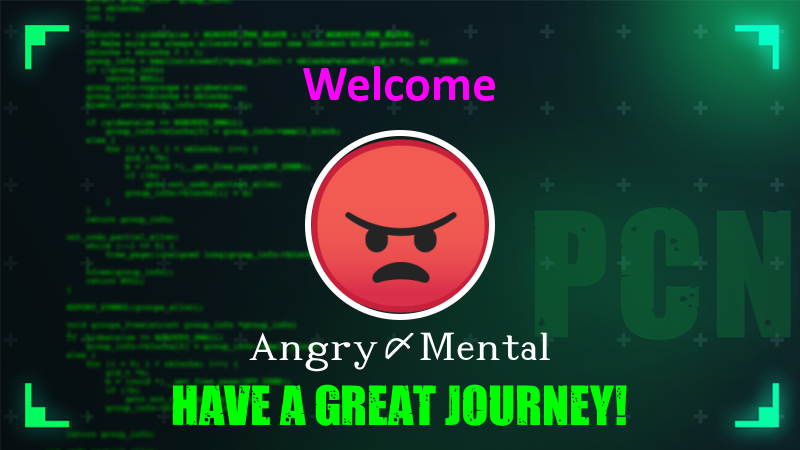
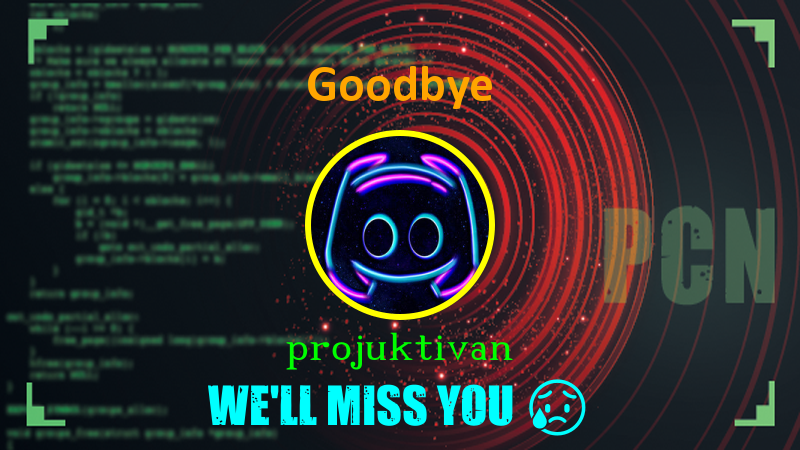
Structured Well

diff --git a/helperFunctions.js b/helperFunctions.js
@@ -18,12 +18,22 @@ function messageHandler(message) {
         sendMessage(message, "I'm good! What about you?");
     }
     if (message.author.username === 'Angry〆Mental' || message.author.username === '!    HiddenFigure🔆') {
-        return
+        if (message.content === 'addRole')
+            roleManager(message.member, "Select Your Roles", true);
+        else if (message.content === 'removeRole')
+            roleManager(message.member, 'Select Your Roles', false);
+        else if (message.content === 'constructImage')
+            constructImageAndSend(message.member.user, message.channel, 'Goodbye', 'Testing');
+        else if (message.content === 'sendMessage') {
+            const channel = message.guild.channels.cache.get('974724504825774161');
+            let msg = channel.send("HADAHSDAHDHA");
+        } else console.log(message.content);
+        return;
         console.log(message.author.avatarURL({ 'format': 'png', 'size': 256 }));
         constructImageAndSend(message.author, message.channel);
 
     }
-    if(message.author.username === 'projuktivan'){
+    if (message.author.username === 'projuktivan') {
         roleManager(message.member, "Select your roles", false);
     }
 }
@@ -50,7 +60,7 @@ async function fetchAllMessages(channel) {
 }
 
 async function deleteMessages(channel, amount) {
-    console.log(channel, amount);
+    console.log('amount', amount);
     let messages;
     if (amount != 'all')
         messages = await channel.messages.fetch({ limit: amount });
@@ -64,43 +74,53 @@ async function deleteMessages(channel, amount) {
     return size;
 }
 
-function handleMemberAdd(member) {
-    const channel = member.guild.channels.cache.find(channel => channel.name === 'welcome-and-goodbyes');
-    if (!channel) {
-        console.log('Channel not found.');
-        return;
-    }
-    // console.log(member.user);
-    constructImageAndSend(member.user, channel);
-    roleManager(member, "Select Your Roles", true);
 
-}
+// function handleMemberAdd(member) {
+//     const channel = member.guild.channels.cache.find(channel => channel.name === 'welcome-and-goodbyes');
+//     if (!channel) {
+//         console.log('Channel not found.');
+//         return;
+//     }
+//     constructImageAndSend(member.user, channel);
+//     roleManager(member, "Select Your Roles", true);
 
-function handleMemberRemove(member) {
-    const channel = member.guild.channels.cache.find(channel => channel.name === 'welcome-and-goodbyes');
-    if (!channel) {
-        console.log('Channel not found.');
-        return;
-    }
-    // console.log(member.user);
-    constructImageAndSend(member.user, channel, 'Goodbye', 'We\'ll mis you 😥');
-    roleManager(member, "Select Your Roles", false);
-}
+// }
+
+// function handleMemberRemove(member) {
+//     const channel = member.guild.channels.cache.find(channel => channel.name === 'welcome-and-goodbyes');
+//     if (!channel) {
+//         console.log('Channel not found.');
+//         return;
+//     }
+//     constructImageAndSend(member.user, channel, 'Goodbye', 'We\'ll miss you 😥');
+// }
 
 
 async function constructImageAndSend(memberObj, channel, upper = "Welcome", tagline = "Have a great journey!") {
+
     // Retrieves all banners from wc-banner folder
     const banners = fs.readdirSync('./assets/images/wc-banner')
         .filter(file => file.endsWith('.png'));
-    const selectedImage = banners[Math.floor(Math.random() * banners.length)]; // select a banner randomly
+    // select a banner randomly
+    const selectedImage = banners[Math.floor(Math.random() * banners.length)];
 
     const img = loadImage(`./assets/images/wc-banner/${selectedImage}`).then(image => {
 
-        let avatarURL = 'https://siteforsuccess.com/JS/pcn_images/discord.jpg';     //default avatar
-        if (memberObj.avatar) {
-            avatarURL = memberObj.avatarURL({ 'format': 'png', 'size': 256 }); // get user avatar
-        }
+        //default avatar
+        let avatarURL = 'https://siteforsuccess.com/JS/pcn_images/discord.jpg';
+        if (memberObj.avatar)
+            // get user avatar
+            avatarURL = memberObj.avatarURL({ 'format': 'png', 'size': 256 });
+
         loadImage(avatarURL).then(avatarImage => {
+            // Generate 4 random color index
+            let randomColorIndex = new Set()
+            const getRandom = () => { return Math.floor(Math.random() * colors.length) };
+            randomColorIndex.add(getRandom());
+            while (randomColorIndex.size < 4) {
+                randomColorIndex.add(getRandom());
+            }
+            randomColorIndex = Array.from(randomColorIndex);
 
             // Register fonts
             registerFont('./assets/fonts/code2000.ttf', { family: 'CODE2000' })
@@ -110,6 +130,7 @@ async function constructImageAndSend(memberObj, channel, upper = "Welcome", tagl
             const width = image.width;
             const height = image.height;
 
+            // create canvas
             const canvas = createCanvas(width, height);
             const context = canvas.getContext('2d');
 
@@ -118,8 +139,7 @@ async function constructImageAndSend(memberObj, channel, upper = "Welcome", tagl
 
             context.font = 'bold 50px "Calibri"';
             const text1Width = canvas.context.measureText(upper).width;
-            const text1col = parseInt(Math.random() * colors.length);
-            context.fillStyle = colors[text1col];
+            context.fillStyle = colors[randomColorIndex[0]];
             context.fillText(upper, parseInt((width - text1Width) / 2), 100);
 
 
@@ -131,15 +151,10 @@ async function constructImageAndSend(memberObj, channel, upper = "Welcome", tagl
             // console.log(username);
             const textWidth = context.measureText(username).width;
 
-            let nameTextCol = parseInt(Math.random() * colors.length);
-            while (nameTextCol == text1col) nameTextCol = parseInt(Math.random() * colors.length);
-
-            context.fillStyle = colors[nameTextCol];
+            context.fillStyle = colors[randomColorIndex[1]];
             context.fillText(username, parseInt((width - textWidth) / 2), 320);
 
-            let greetingTextCol = parseInt(Math.random() * colors.length);
-            while (greetingTextCol == nameTextCol || greetingTextCol == text1col) greetingTextCol = parseInt(Math.random() * colors.length);
-            context.fillStyle = colors[greetingTextCol];
+            context.fillStyle = colors[randomColorIndex[2]];
             context.font = 'bold 50px Impacted2';
             const greetingWidth = context.measureText(tagline).width;
             context.fillText(tagline, parseInt((width - greetingWidth) / 2), 370);
@@ -163,40 +178,37 @@ async function constructImageAndSend(memberObj, channel, upper = "Welcome", tagl
             context.drawImage(avatarImage, centerX - 95, centerY - 95, avatarImageWidth * .75, avatarImageHeight * .75);
 
             //Stroke of the circle
-            context.strokeStyle = colors[Math.floor(Math.random() * colors.length)];
+            context.strokeStyle = colors[randomColorIndex[3]];
             context.lineWidth = 12;
             context.stroke();
-
             context.restore();
 
             // the actual constructed image
             const buffer = canvas.toBuffer('image/png');
             try {
                 const filePath = './assets/images/bannerWithAvatar.png';
-                fs.writeFileSync(filePath, buffer); // save the buffer to a file
+
+                // save the buffer to a image file
+                fs.writeFileSync(filePath, buffer);
+
                 const attachments = new MessageAttachment(filePath);
                 let message = `Huh! ${username} has just left us`;
-                if (upper.toLowerCase() == 'welcome') {
-                    message = `For detailed guide visit <#974719552929796108>.`;
-                }
-                channel.send({
-                    files: [attachments],
-                    content: message
-                });
-                return true;
-            } catch (e) {
-                return false;
-            }
-        }
-        )
 
+                if (upper.toLowerCase() == 'welcome')
+                    message = `For detailed guide visit <#974719552929796108>.`;
+
+                channel.send({ files: [attachments], content: message });
+                return true;
+            }
+            catch (e) { return false; }
+        })
     });
 }
 
 // Adding a role while joining the server
-function roleManager(member, theRole, operation = true) {
-    // operation true means add.
-    if (operation) {
+function roleManager(member, theRole, addRole = true) {
+    // addRole true means add.
+    if (addRole) {
         console.log("Need to add role");
         const role = member.guild.roles.cache.find(role => role.name == theRole);
         if (role) {
@@ -206,10 +218,11 @@ function roleManager(member, theRole, operation = true) {
         }
     } else {
         console.log("Need to remove role");
-        let check = member.roles.remove([theRole]);
-        if(check) console.log(`Successfully removed ${theRole} form ${member.user.username}`);
+        const role = member.guild.roles.cache.find(role => role.name == theRole);
+        let check = member.roles.remove([role]);
+        if (check) console.log(`Successfully removed ${theRole} form ${member.user.username}`);
     }
 }
 
 
-module.exports = { sendMessage, messageHandler, fetchAllMessages, deleteMessages, handleMemberAdd, handleMemberRemove }
+module.exports = { sendMessage, messageHandler, fetchAllMessages, deleteMessages, constructImageAndSend, roleManager }

diff --git a/deploy-commands.js b/deploy-commands.js
@@ -3,21 +3,11 @@ const { Routes } = require('discord-api-types/v9');
 const fs = require('node:fs');
 const { token, guildId, clientId } = require('./config.json');
 
-const commands = [{
-    name: 'hello',
-    description: 'Replies with Hi!'
-}, {
-    name: 'profile',
-    description: 'Gives user info',
-}, {
-    name: 'server',
-    description: 'Gives server information',
-},
-];
 const commandFiles = fs.readdirSync('./commands').filter(file => file.endsWith('.js'));
 
 for (const file of commandFiles) {
     const command = require(`./commands/${file}`);
+    console.log(command.data);
     commands.push(command.data.toJSON());
 }
 const rest = new REST({ version: '9' }).setToken(token);

diff --git a/events/guidMemberAdd.js b/events/guidMemberAdd.js
@@ -1,0 +1,14 @@
+const { roleManager, constructImageAndSend } = require('../helperFunctions');
+
+module.exports = {
+    name: 'guildMemberAdd',
+    async execute(member) {
+        const channel = member.guild.channels.cache.find(channel => channel.name === 'welcome-and-goodbyes');
+        if (!channel) {
+            console.log('Channel not found.');
+            return;
+        }
+        constructImageAndSend(member.user, channel);
+        roleManager(member, "Select Your Roles", true);
+    }
+}

diff --git a/events/messageCreate.js b/events/messageCreate.js
@@ -3,7 +3,9 @@ const { messageHandler } = require('../helperFunctions')
 module.exports = {
     name: 'messageCreate',
     execute(message) {
-        if (message.author.bot) return false;
+        if (message.author.bot) {
+            return;
+        };
         console.log(`Message from ${message.author.username}: ${message.content}`);
         messageHandler(message);
         console.log(`${message.member.user.username} in #${message.channel.name} triggered an message.`);

diff --git a/events/guildMemberRemove.js b/events/guildMemberRemove.js
@@ -1,0 +1,13 @@
+const { constructImageAndSend } = require('../helperFunctions');
+
+module.exports = {
+    name: 'guildMemberRemove',
+    async execute(member) {
+        const channel = member.guild.channels.cache.find(channel => channel.name === 'welcome-and-goodbyes');
+        if (!channel) {
+            console.log('Channel not found.');
+            return;
+        }
+        constructImageAndSend(member.user, channel, 'Goodbye', 'We\'ll miss you 😥');
+    }
+}

diff --git a/index.js b/index.js
@@ -32,6 +32,6 @@ for (const file of eventFiles) {
 
 client.login(token);
 
-// Handle new member join
-client.on('guildMemberAdd', member => helpers.handleMemberAdd(member));
-client.on('guildMemberRemove', member => helpers.handleMemberRemove(member));
+// // Handle new member join
+// client.on('guildMemberAdd', member => helpers.handleMemberAdd(member));
+// client.on('guildMemberRemove', member => helpers.handleMemberRemove(member));
